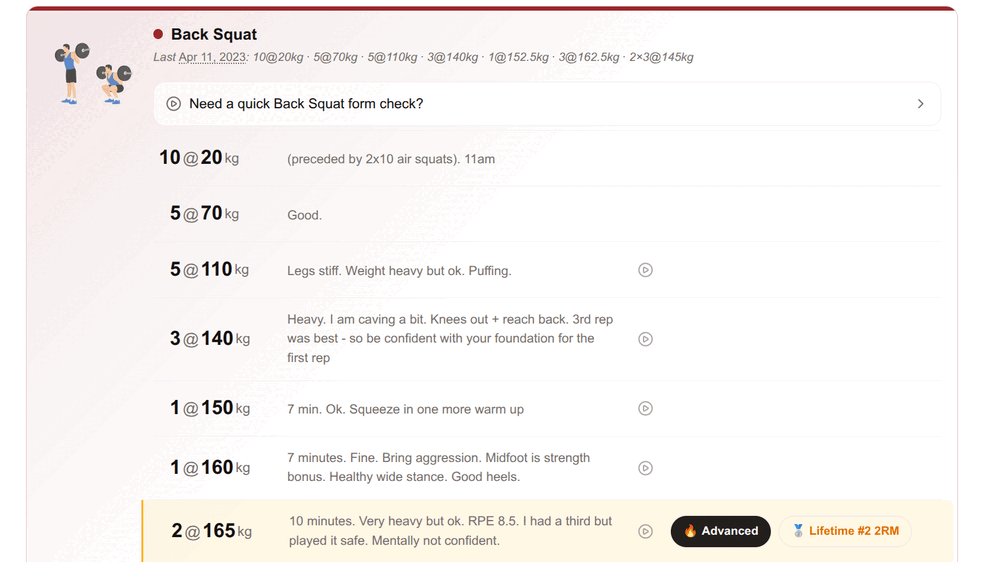
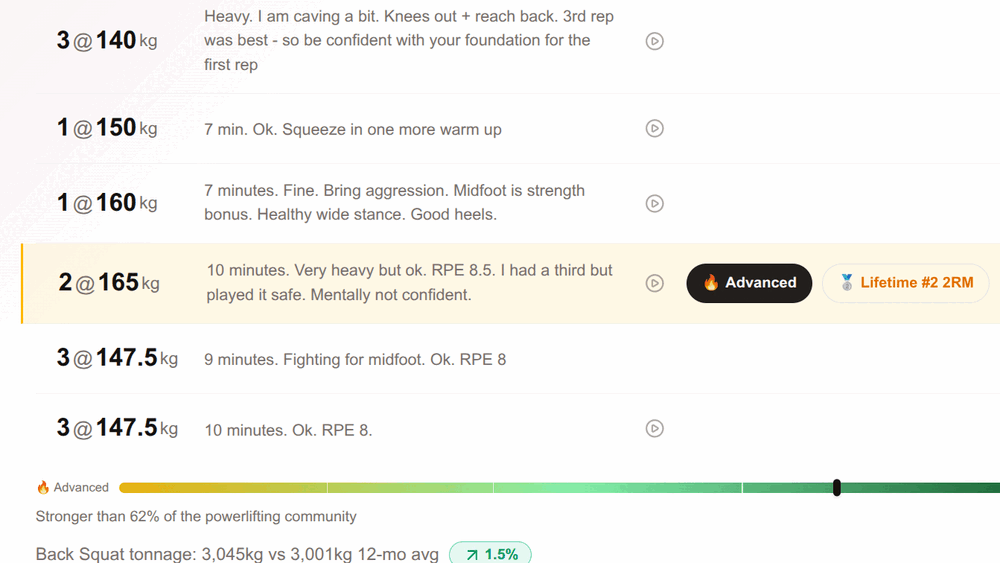
Align the hero CTA buttons and tighten the log crop
The two CTA columns hold descriptions that wrap to different line counts, so
the side-by-side row centering them vertically left the buttons out of line
with each other. Top-align the columns once they are side by side.

Recrop log-hero.png much tighter for desktop. The badges sit at the far right
of a set row and the weight at the far left, so the crop cannot narrow past
that span without losing one of them — this is the tightest framing that keeps
both. Trades the lift title and the first four warm-up sets for six legible
rows, and regains the strength bar, the percentile line and the tonnage delta.

diff --git a/src/components/homepage/hero-section.js b/src/components/homepage/hero-section.js
@@ -85,8 +85,11 @@ function HeroPrimaryCta() {
 
   return (
     <div className="flex flex-col items-center gap-4 md:items-start">
-      {/* Primary + secondary CTAs side by side on sm+, stacked on mobile */}
-      <div className="flex w-full flex-col items-center gap-3 sm:flex-row sm:justify-center lg:justify-start">
+      {/* Primary + secondary CTAs side by side on sm+, stacked on mobile.
+          Once side by side the columns must top-align: the two descriptions
+          wrap to different line counts, so centering them vertically pushes the
+          buttons out of line with each other. */}
+      <div className="flex w-full flex-col items-center gap-3 sm:flex-row sm:items-start sm:justify-center lg:justify-start">
         {/* Primary CTA column */}
         <div className="flex w-full flex-col items-center sm:w-auto">
           {isAuthed ? (
